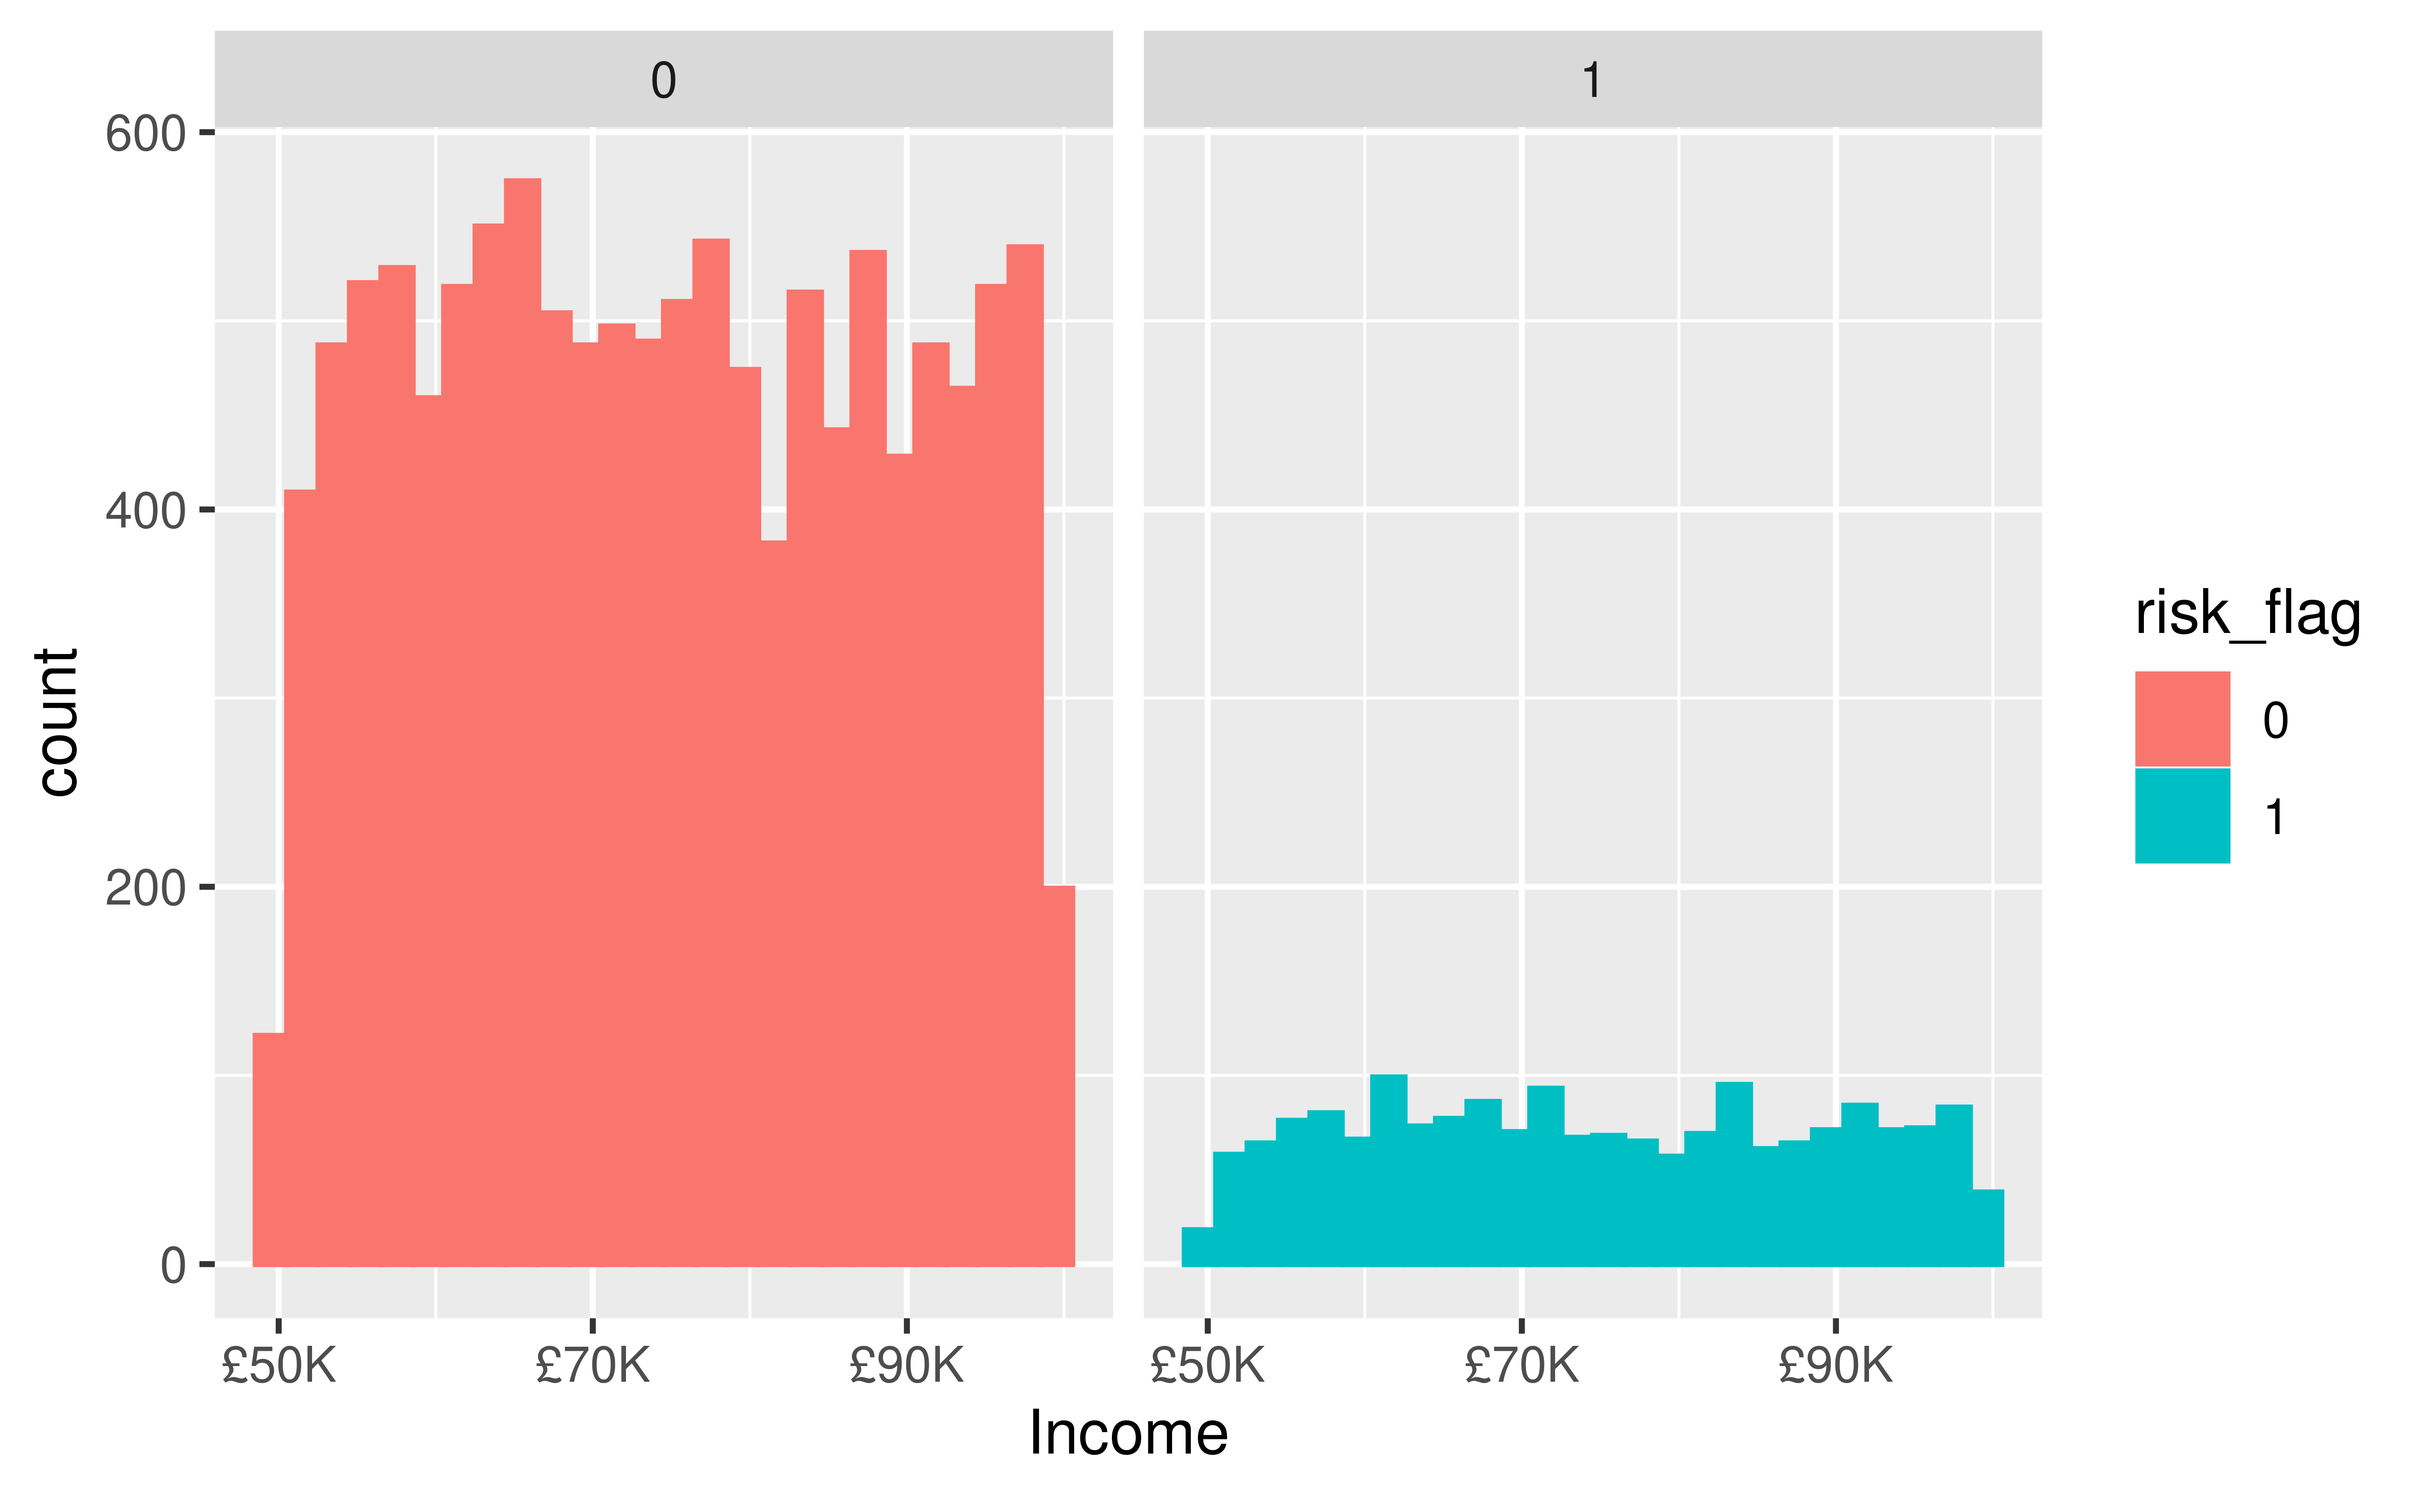
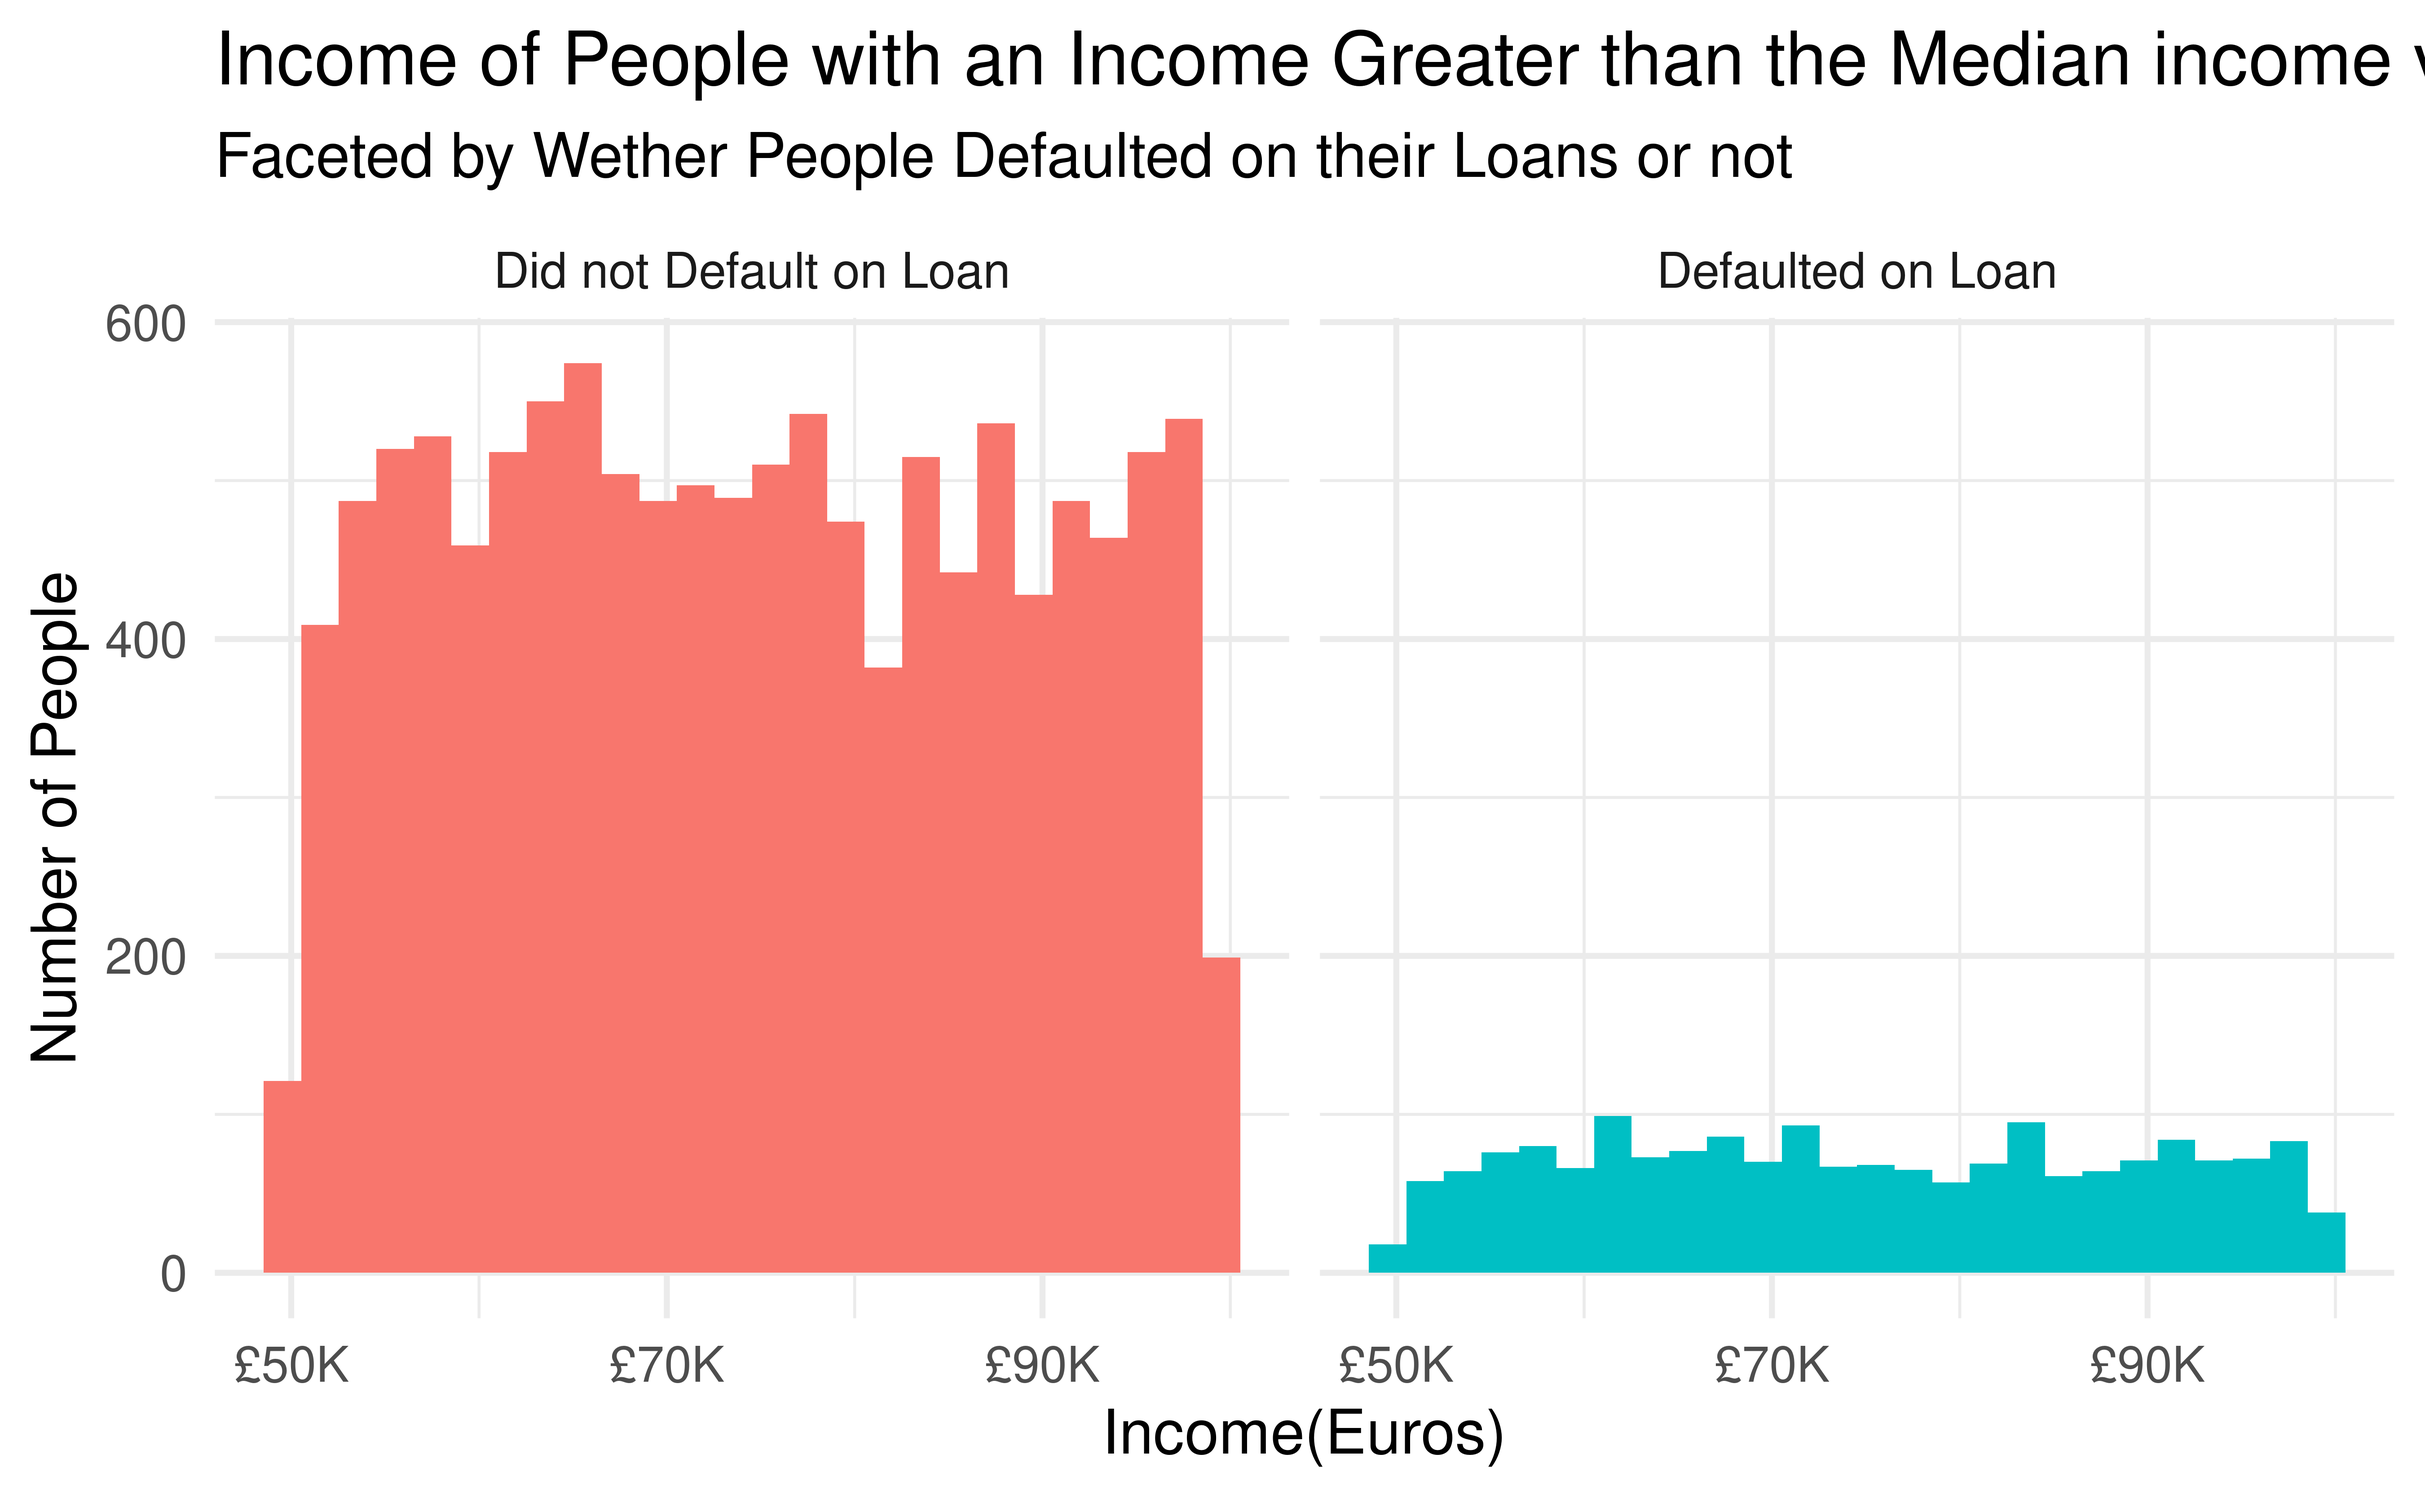
Added Titles for some Graphs

diff --git a/presentation/reveal.js_template/presentation.html b/presentation/reveal.js_template/presentation.html
@@ -4,7 +4,7 @@
   <meta charset="utf-8">
   <meta name="generator" content="pandoc">
   <meta name="author" content="Amigos   Orestis Patsalides, Nicolas Georgiades and Iskandar Sawalha " />
-  <meta name="dcterms.date" content="2021-11-25" />
+  <meta name="dcterms.date" content="2021-11-26" />
   <title>Loan Defaulting Investigation</title>
   <meta name="apple-mobile-web-app-capable" content="yes">
   <meta name="apple-mobile-web-app-status-bar-style" content="black-translucent">
@@ -137,7 +137,7 @@
   <h1 class="subtitle"><font size ='7'>For Bank Clients In India</font></h1>
   <h2 class="author"><font size ='6'>Amigos <br> Orestis Patsalides, Nicolas Georgiades and Iskandar Sawalha </font></h2>
   <h3 class="institute"><font size ='10'>University of Edinburgh</font></h2>
-  <h3 class="date"><font size = '6'>2021-11-25</font></h3>
+  <h3 class="date"><font size = '6'>2021-11-26</font></h3>
 </section>
 
 <section id="introducing-our-investigation" class="slide level2" data-background-image="img/s2.png">
@@ -317,31 +317,19 @@ single
 <p></font></p>
 </section></section>
 <section>
-<<<<<<< HEAD
 <section id="how-does-income-affect-loan-defaulting" class="title-slide slide level1">
 <h1>How does Income affect Loan Defaulting</h1>
 <p><img src="presentation_files/figure-revealjs/unnamed-chunk-2-1.png" width="80%" /></p>
-=======
-<section id="section" class="title-slide slide level1">
-<h1></h1>
-<p><img src="presentation_files/figure-revealjs/unnamed-chunk-2-1.png" width="80%" /> #</p>
->>>>>>> 2aa2ddec99957c7093d6e222307cf59670041337
 <pre><code>## # A tibble: 2 × 5
-##   term        estimate std.error statistic   p.value
-##   &lt;chr&gt;          &lt;dbl&gt;     &lt;dbl&gt;     &lt;dbl&gt;     &lt;dbl&gt;
-## 1 (Intercept) 1.25e- 1  4.04e- 3    31.1   2.19e-208
-## 2 Income      5.68e-10  6.98e-10     0.814 4.16e-  1</code></pre>
+##   term        estimate     std.error statistic p.value
+##   &lt;chr&gt;          &lt;dbl&gt;         &lt;dbl&gt;     &lt;dbl&gt;   &lt;dbl&gt;
+## 1 (Intercept) -1.94e+0 0.0363          -53.5     0    
+## 2 Income       5.08e-9 0.00000000624     0.814   0.416</code></pre>
 </section>
-<<<<<<< HEAD
 <section class="slide level2">
 
 <p><em>How does Marriage Status affect this relationship</em></p>
 <p><img src="presentation_files/figure-revealjs/unnamed-chunk-3-1.png" width="80%" /></p>
-=======
-<section id="section-1" class="slide level2">
-<h2></h2>
-<p><img src="presentation_files/figure-revealjs/unnamed-chunk-4-1.png" width="80%" /></p>
->>>>>>> 2aa2ddec99957c7093d6e222307cf59670041337
 <pre><code>## # A tibble: 3 × 5
 ##   term                  estimate std.error statistic  p.value
 ##   &lt;chr&gt;                    &lt;dbl&gt;     &lt;dbl&gt;     &lt;dbl&gt;    &lt;dbl&gt;
@@ -351,8 +339,6 @@ single
 </section>
 <section class="slide level2">
 
-<pre><code>## [1] -1.206961e-05</code></pre>
-<pre><code>## [1] -3.26718e-05</code></pre>
 </section></section>
 <section id="layouts" class="title-slide slide level1">
 <h1>Layouts</h1>
@@ -376,25 +362,15 @@ like this
 
 <section id="code" class="title-slide slide level1">
 <h1>Code</h1>
-<<<<<<< HEAD
 <div class="sourceCode" id="cb3"><pre class="sourceCode r"><code class="sourceCode r"><span id="cb3-1"><a href="#cb3-1" aria-hidden="true" tabindex="-1"></a><span class="co"># a boring regression</span></span>
 <span id="cb3-2"><a href="#cb3-2" aria-hidden="true" tabindex="-1"></a>model <span class="ot">&lt;-</span> <span class="fu">lm</span>(dist <span class="sc">~</span> speed, <span class="at">data =</span> cars)</span>
 <span id="cb3-3"><a href="#cb3-3" aria-hidden="true" tabindex="-1"></a><span class="fu">tidy</span>(model)</span></code></pre></div>
-=======
-<div class="sourceCode" id="cb5"><pre class="sourceCode r"><code class="sourceCode r"><span id="cb5-1"><a href="#cb5-1" aria-hidden="true" tabindex="-1"></a><span class="co"># a boring regression</span></span>
-<span id="cb5-2"><a href="#cb5-2" aria-hidden="true" tabindex="-1"></a>model <span class="ot">&lt;-</span> <span class="fu">lm</span>(dist <span class="sc">~</span> speed, <span class="at">data =</span> cars)</span>
-<span id="cb5-3"><a href="#cb5-3" aria-hidden="true" tabindex="-1"></a><span class="fu">tidy</span>(model)</span></code></pre></div>
->>>>>>> 2aa2ddec99957c7093d6e222307cf59670041337
 <pre><code>## # A tibble: 2 × 5
 ##   term        estimate std.error statistic  p.value
 ##   &lt;chr&gt;          &lt;dbl&gt;     &lt;dbl&gt;     &lt;dbl&gt;    &lt;dbl&gt;
 ## 1 (Intercept)   -17.6      6.76      -2.60 1.23e- 2
 ## 2 speed           3.93     0.416      9.46 1.49e-12</code></pre>
-<<<<<<< HEAD
 <div class="sourceCode" id="cb5"><pre class="sourceCode r"><code class="sourceCode r"><span id="cb5-1"><a href="#cb5-1" aria-hidden="true" tabindex="-1"></a><span class="fu">glance</span>(model)</span></code></pre></div>
-=======
-<div class="sourceCode" id="cb7"><pre class="sourceCode r"><code class="sourceCode r"><span id="cb7-1"><a href="#cb7-1" aria-hidden="true" tabindex="-1"></a><span class="fu">glance</span>(model)</span></code></pre></div>
->>>>>>> 2aa2ddec99957c7093d6e222307cf59670041337
 <pre><code>## # A tibble: 1 × 12
 ##   r.squared adj.r.squared sigma statistic  p.value    df logLik   AIC   BIC
 ##       &lt;dbl&gt;         &lt;dbl&gt; &lt;dbl&gt;     &lt;dbl&gt;    &lt;dbl&gt; &lt;dbl&gt;  &lt;dbl&gt; &lt;dbl&gt; &lt;dbl&gt;
@@ -416,11 +392,7 @@ like this
 <li>goes here</li>
 </ul>
 </div><div class="column">
-<<<<<<< HEAD
-<p><img src="presentation_files/figure-revealjs/unnamed-chunk-4-1.png" width="100%" /></p>
-=======
-<p><img src="presentation_files/figure-revealjs/unnamed-chunk-6-1.png" width="100%" /></p>
->>>>>>> 2aa2ddec99957c7093d6e222307cf59670041337
+<p><img src="presentation_files/figure-revealjs/unnamed-chunk-5-1.png" width="100%" /></p>
 </div>
 </div>
 </section>
@@ -433,11 +405,7 @@ like this
 <li>goes here</li>
 </ul>
 </div><div class="column" style="width:60%;">
-<<<<<<< HEAD
-<p><img src="presentation_files/figure-revealjs/unnamed-chunk-5-1.png" width="100%" /></p>
-=======
-<p><img src="presentation_files/figure-revealjs/unnamed-chunk-7-1.png" width="100%" /></p>
->>>>>>> 2aa2ddec99957c7093d6e222307cf59670041337
+<p><img src="presentation_files/figure-revealjs/unnamed-chunk-6-1.png" width="100%" /></p>
 </div>
 </div>
 </section></section>
@@ -577,7 +545,7 @@ setosa
 <p><img src="https://images.unsplash.com/photo-1535448033526-c0e85c9e6968?ixlib=rb-1.2.1&ixid=eyJhcHBfaWQiOjEyMDd9&auto=format&fit=crop&w=1650&q=80" title="Image credit: Photo by Jörg Angeli on Unsplash." alt="Image credit: Photo by Jörg Angeli on Unsplash." width="60%" style="display: block; margin: auto;" /></p>
 <p>Or you can also include a full page image. See next slide.</p>
 </section>
-<section id="section-2" class="slide level2" data-background-image="https://images.unsplash.com/photo-1535448033526-c0e85c9e6968?ixlib=rb-1.2.1&amp;ixid=eyJhcHBfaWQiOjEyMDd9&amp;auto=format&amp;fit=crop&amp;w=1650&amp;q=80">
+<section id="section" class="slide level2" data-background-image="https://images.unsplash.com/photo-1535448033526-c0e85c9e6968?ixlib=rb-1.2.1&amp;ixid=eyJhcHBfaWQiOjEyMDd9&amp;auto=format&amp;fit=crop&amp;w=1650&amp;q=80">
 <h2 data-background-image="https://images.unsplash.com/photo-1535448033526-c0e85c9e6968?ixlib=rb-1.2.1&amp;ixid=eyJhcHBfaWQiOjEyMDd9&amp;auto=format&amp;fit=crop&amp;w=1650&amp;q=80"></h2>
 </section></section>
 <section id="math-expressions" class="title-slide slide level1">
